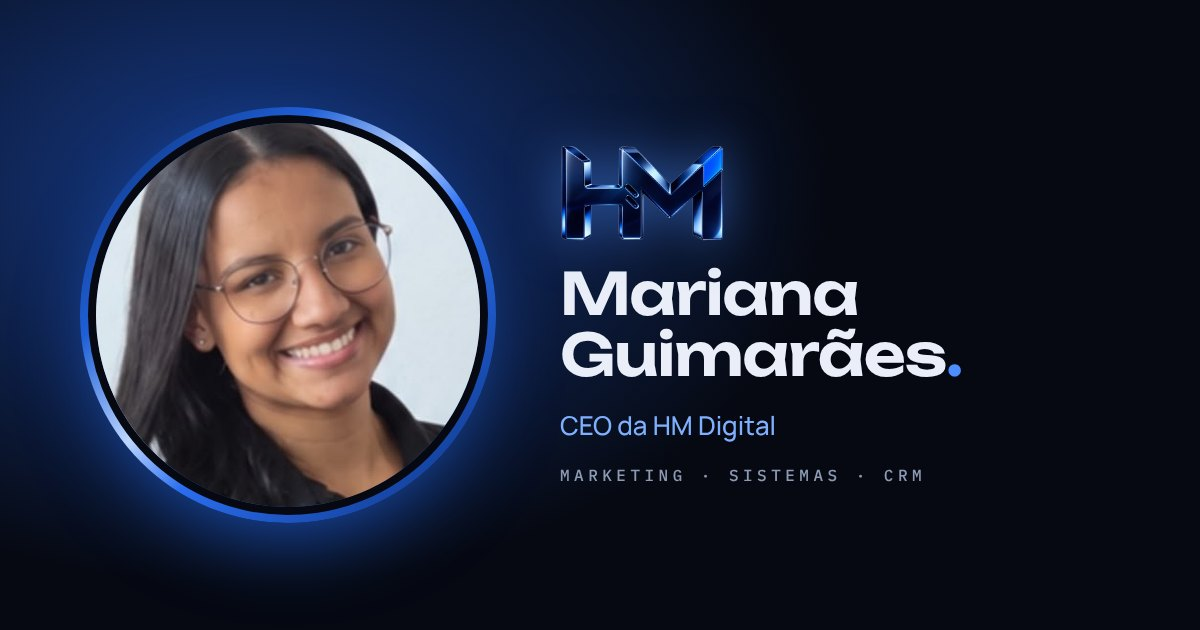
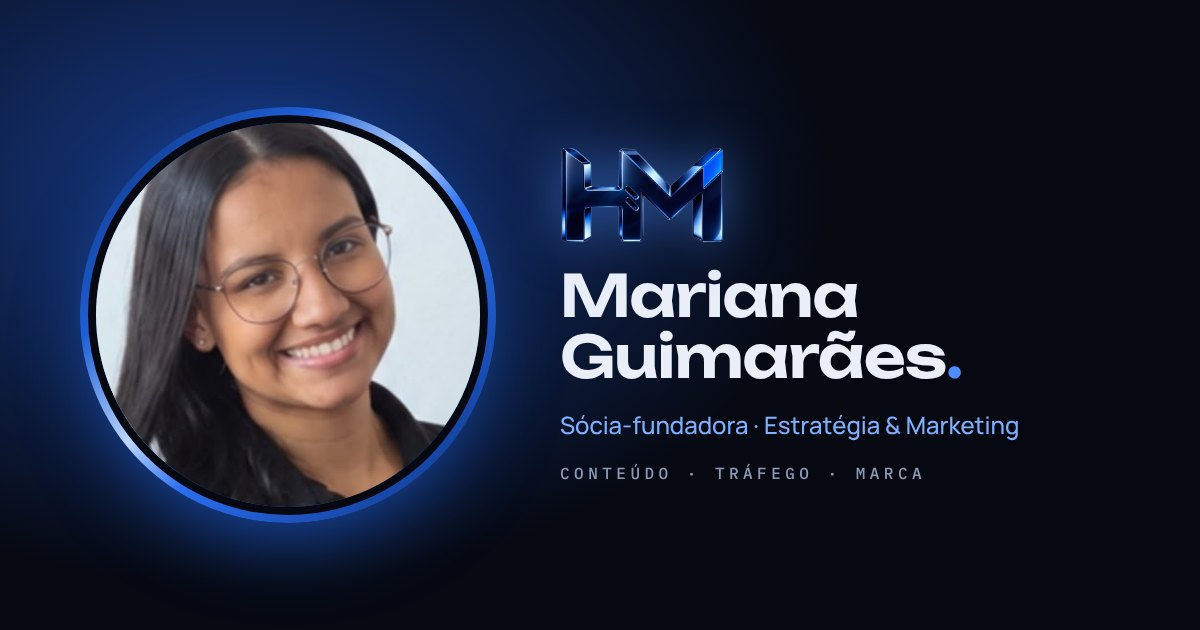
Troca CEO por cargo próprio de cada sócio e reescreve os textos
Claude-Session: https://claude.ai/code/session_01GSnqSHQkY71g6e2Ssbge3v

diff --git a/index.html b/index.html
@@ -3,38 +3,38 @@
 <head>
 <meta charset="utf-8">
 <meta name="viewport" content="width=device-width, initial-scale=1, viewport-fit=cover">
-<title>Mariana Guimarães · CEO da HM Digital</title>
-<meta name="description" content="Cartão digital de Mariana Guimarães, CEO da HM Digital.">
+<title>Mariana Guimarães · HM Digital</title>
+<meta name="description" content="Cartão digital de Mariana Guimarães, sócia-fundadora da HM Digital.">
 <meta name="theme-color" content="#060912">
 <meta property="og:type" content="profile">
-<meta property="og:title" content="Mariana Guimarães · CEO da HM Digital">
-<meta property="og:description" content="Cartão digital de Mariana Guimarães, CEO da HM Digital.">
+<meta property="og:title" content="Mariana Guimarães · HM Digital">
+<meta property="og:description" content="Cartão digital de Mariana Guimarães, sócia-fundadora da HM Digital.">
 <meta property="og:url" content="https://mariana.hmdigitalgo.com/">
 <meta property="og:site_name" content="HM Digital">
 <meta property="og:locale" content="pt_BR">
 <!-- Prévia do link (WhatsApp etc.): a foto quadrada vem primeiro para o rosto aparecer na miniatura -->
-<meta property="og:image" content="https://mariana.hmdigitalgo.com/assets/img/foto.jpg?v=5">
+<meta property="og:image" content="https://mariana.hmdigitalgo.com/assets/img/foto.jpg?v=6">
 <meta property="og:image:type" content="image/jpeg">
 <meta property="og:image:width" content="600">
 <meta property="og:image:height" content="600">
-<meta property="og:image" content="https://mariana.hmdigitalgo.com/assets/img/og.jpg?v=5">
+<meta property="og:image" content="https://mariana.hmdigitalgo.com/assets/img/og.jpg?v=6">
 <meta property="og:image:width" content="1200">
 <meta property="og:image:height" content="630">
 <meta name="twitter:card" content="summary_large_image">
-<meta name="twitter:image" content="https://mariana.hmdigitalgo.com/assets/img/og.jpg?v=5">
+<meta name="twitter:image" content="https://mariana.hmdigitalgo.com/assets/img/og.jpg?v=6">
 <link rel="canonical" href="https://mariana.hmdigitalgo.com/">
 <link rel="icon" href="/assets/img/favicon.svg" type="image/svg+xml">
 <link rel="preconnect" href="https://fonts.googleapis.com">
 <link rel="preconnect" href="https://fonts.gstatic.com" crossorigin>
 <link rel="stylesheet" href="https://fonts.googleapis.com/css2?family=Unbounded:wght@300;500;600;700&family=Manrope:wght@400;500;600&family=IBM+Plex+Mono:wght@400;500&display=swap">
-<link rel="stylesheet" href="/assets/css/style.css?v=5">
+<link rel="stylesheet" href="/assets/css/style.css?v=6">
 </head>
 <body>
 <noscript><p style="padding:24px">Ative o JavaScript para ver este cartão.</p></noscript>
 <script src="/assets/vendor/gsap-3.12.5.min.js"></script>
 <script src="/assets/vendor/qrcode-generator-1.4.4.js"></script>
-<script src="/assets/js/perfil.js?v=5"></script>
-<script src="/assets/js/intro.js?v=5"></script>
-<script src="/assets/js/card.js?v=5"></script>
+<script src="/assets/js/perfil.js?v=6"></script>
+<script src="/assets/js/intro.js?v=6"></script>
+<script src="/assets/js/card.js?v=6"></script>
 </body>
 </html>

diff --git a/assets/js/perfil.js b/assets/js/perfil.js
@@ -3,15 +3,15 @@
 window.HM_PROFILE = {
   slug: "mariana",
   name: "Mariana Guimarães",
-  role: "CEO da HM Digital",
+  role: "Sócia-fundadora · Estratégia & Marketing",
   photo: "/assets/img/foto.jpg",
   status: "Agenda aberta",
   bio: [
-      "Sou Mariana Guimarães, CEO da HM Digital. Acredito que marketing bom é aquele que vira resultado para o negócio.",
-      "Na HM, a gente junta estratégia, conteúdo e tecnologia: do Instagram ao CRM, do site ao sistema de delivery.",
-      "Gosto de entender a fundo cada cliente para entregar soluções com a cara da marca e que facilitam o dia a dia da empresa."
+      "Sou a Mariana, sócia-fundadora da HM Digital. Cuido da estratégia e do marketing: como a sua marca aparece, o que ela fala e para quem.",
+      "Redes sociais, conteúdo, tráfego pago e identidade visual trabalhando juntos para atrair o cliente certo.",
+      "Antes de criar qualquer campanha, eu escuto a história do seu negócio. É dela que sai cada ideia."
   ],
-  signature: "HM Digital. Marketing e tecnologia para crescer.",
+  signature: "Marketing com a cara da sua marca.",
   whatsapp: "5562984134046",          // DDI + DDD + número, só dígitos
   whatsappMsg: "Olá, Mariana! Vim pelo seu cartão digital.",
   phone: "+55 62 98413-4046",

diff --git a/README.md b/README.md
@@ -1,6 +1,6 @@
 # Cartão digital · Mariana Guimarães
 
-Cartão digital de Mariana, CEO da HM Digital, com a abertura animada do gimbal: ele entra pulando, sobe nas letras, amassa o "I" de DIGITAL e acende a tela, revelando o logo da HM.
+Cartão digital de Mariana, sócia-fundadora da HM Digital, com a abertura animada do gimbal: ele entra pulando, sobe nas letras, amassa o "I" de DIGITAL e acende a tela, revelando o logo da HM.
 
 ## Editar os dados
 
@@ -9,7 +9,7 @@ Tudo fica em `assets/js/perfil.js`. Os campos marcados com `TODO` ainda precisam
 - **Foto:** coloque o arquivo em `assets/img/foto.jpg` (quadrado, 600×600) e preencha `photo: "/assets/img/foto.jpg"`.
 - **Logo da HM:** coloque o arquivo em `assets/img/logo-hm.png` (ou `.svg`, fundo transparente) e preencha `logo` em `HM_COMPANY`. Ele aparece no topo, no rodapé e no brilho final da abertura.
 
-Este repositório e o do outro CEO usam o mesmo código. Só o `perfil.js`, o `index.html` (título) e as fotos mudam. Se alterar o visual ou a abertura, copie `assets/css`, `assets/js/card.js` e `assets/js/intro.js` para o outro repositório também.
+Este repositório e o do outro sócio usam o mesmo código. Só o `perfil.js`, o `index.html` (título) e as fotos mudam. Se alterar o visual ou a abertura, copie `assets/css`, `assets/js/card.js` e `assets/js/intro.js` para o outro repositório também.
 
 ## Abertura
 
